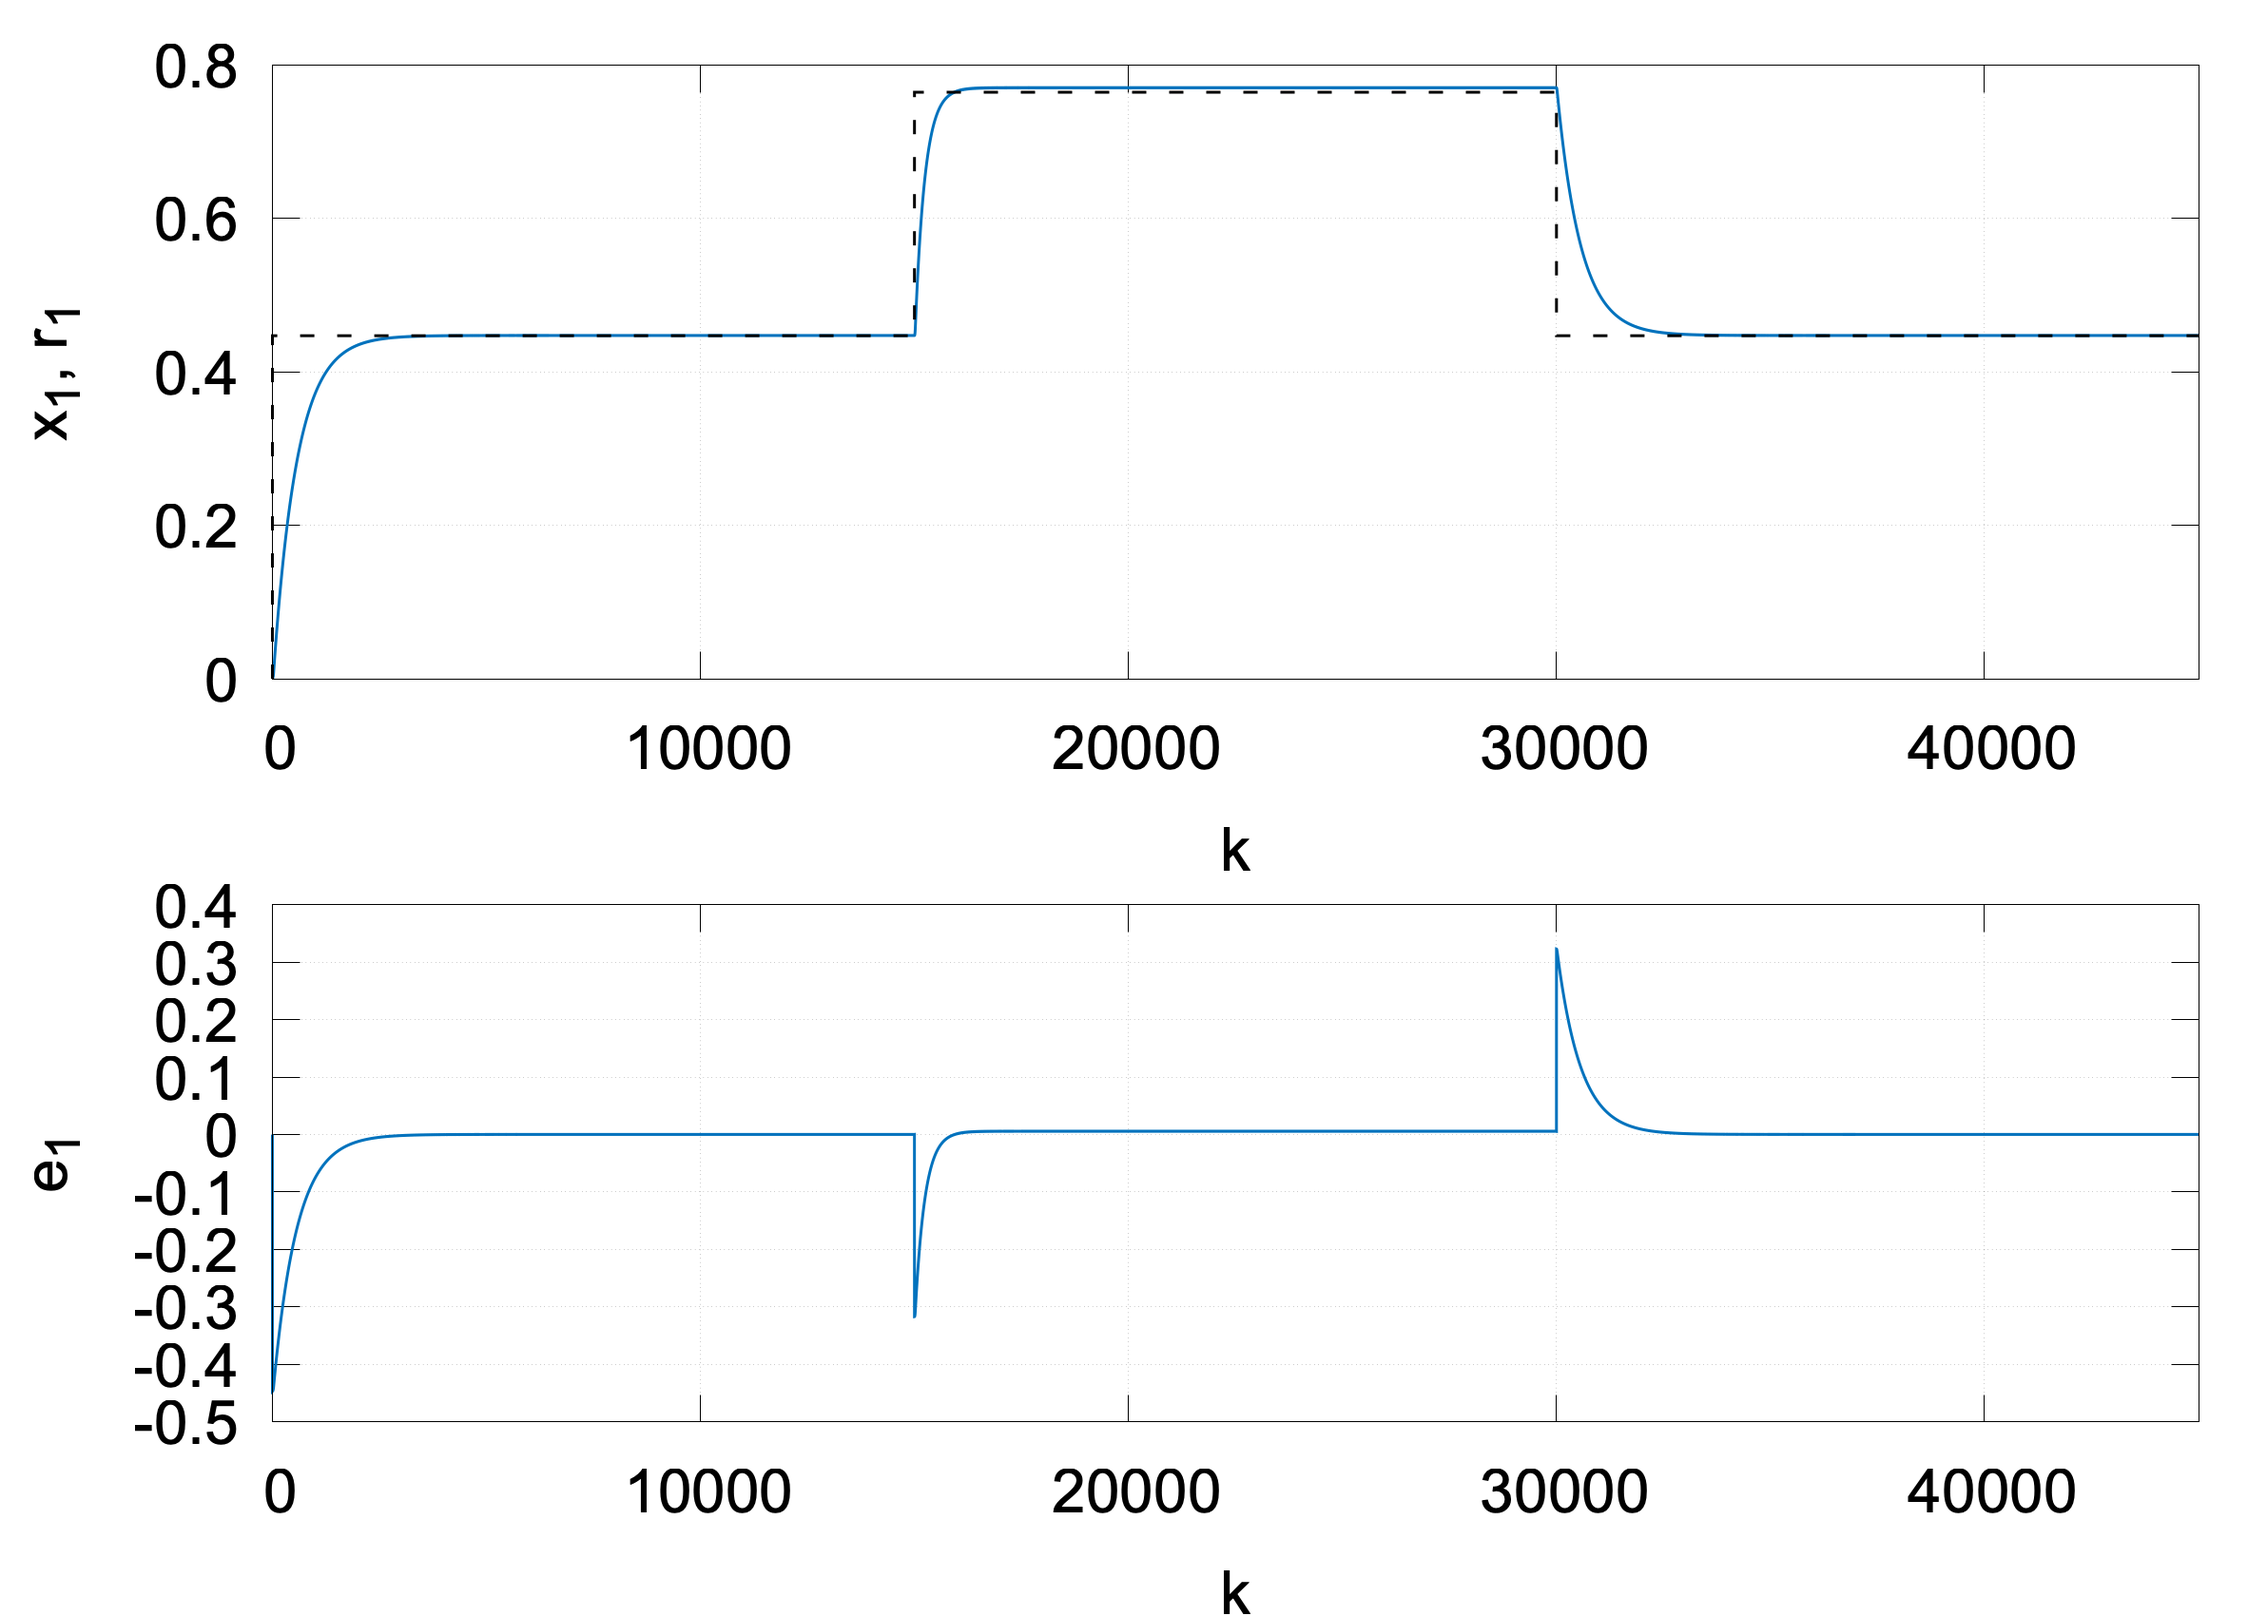
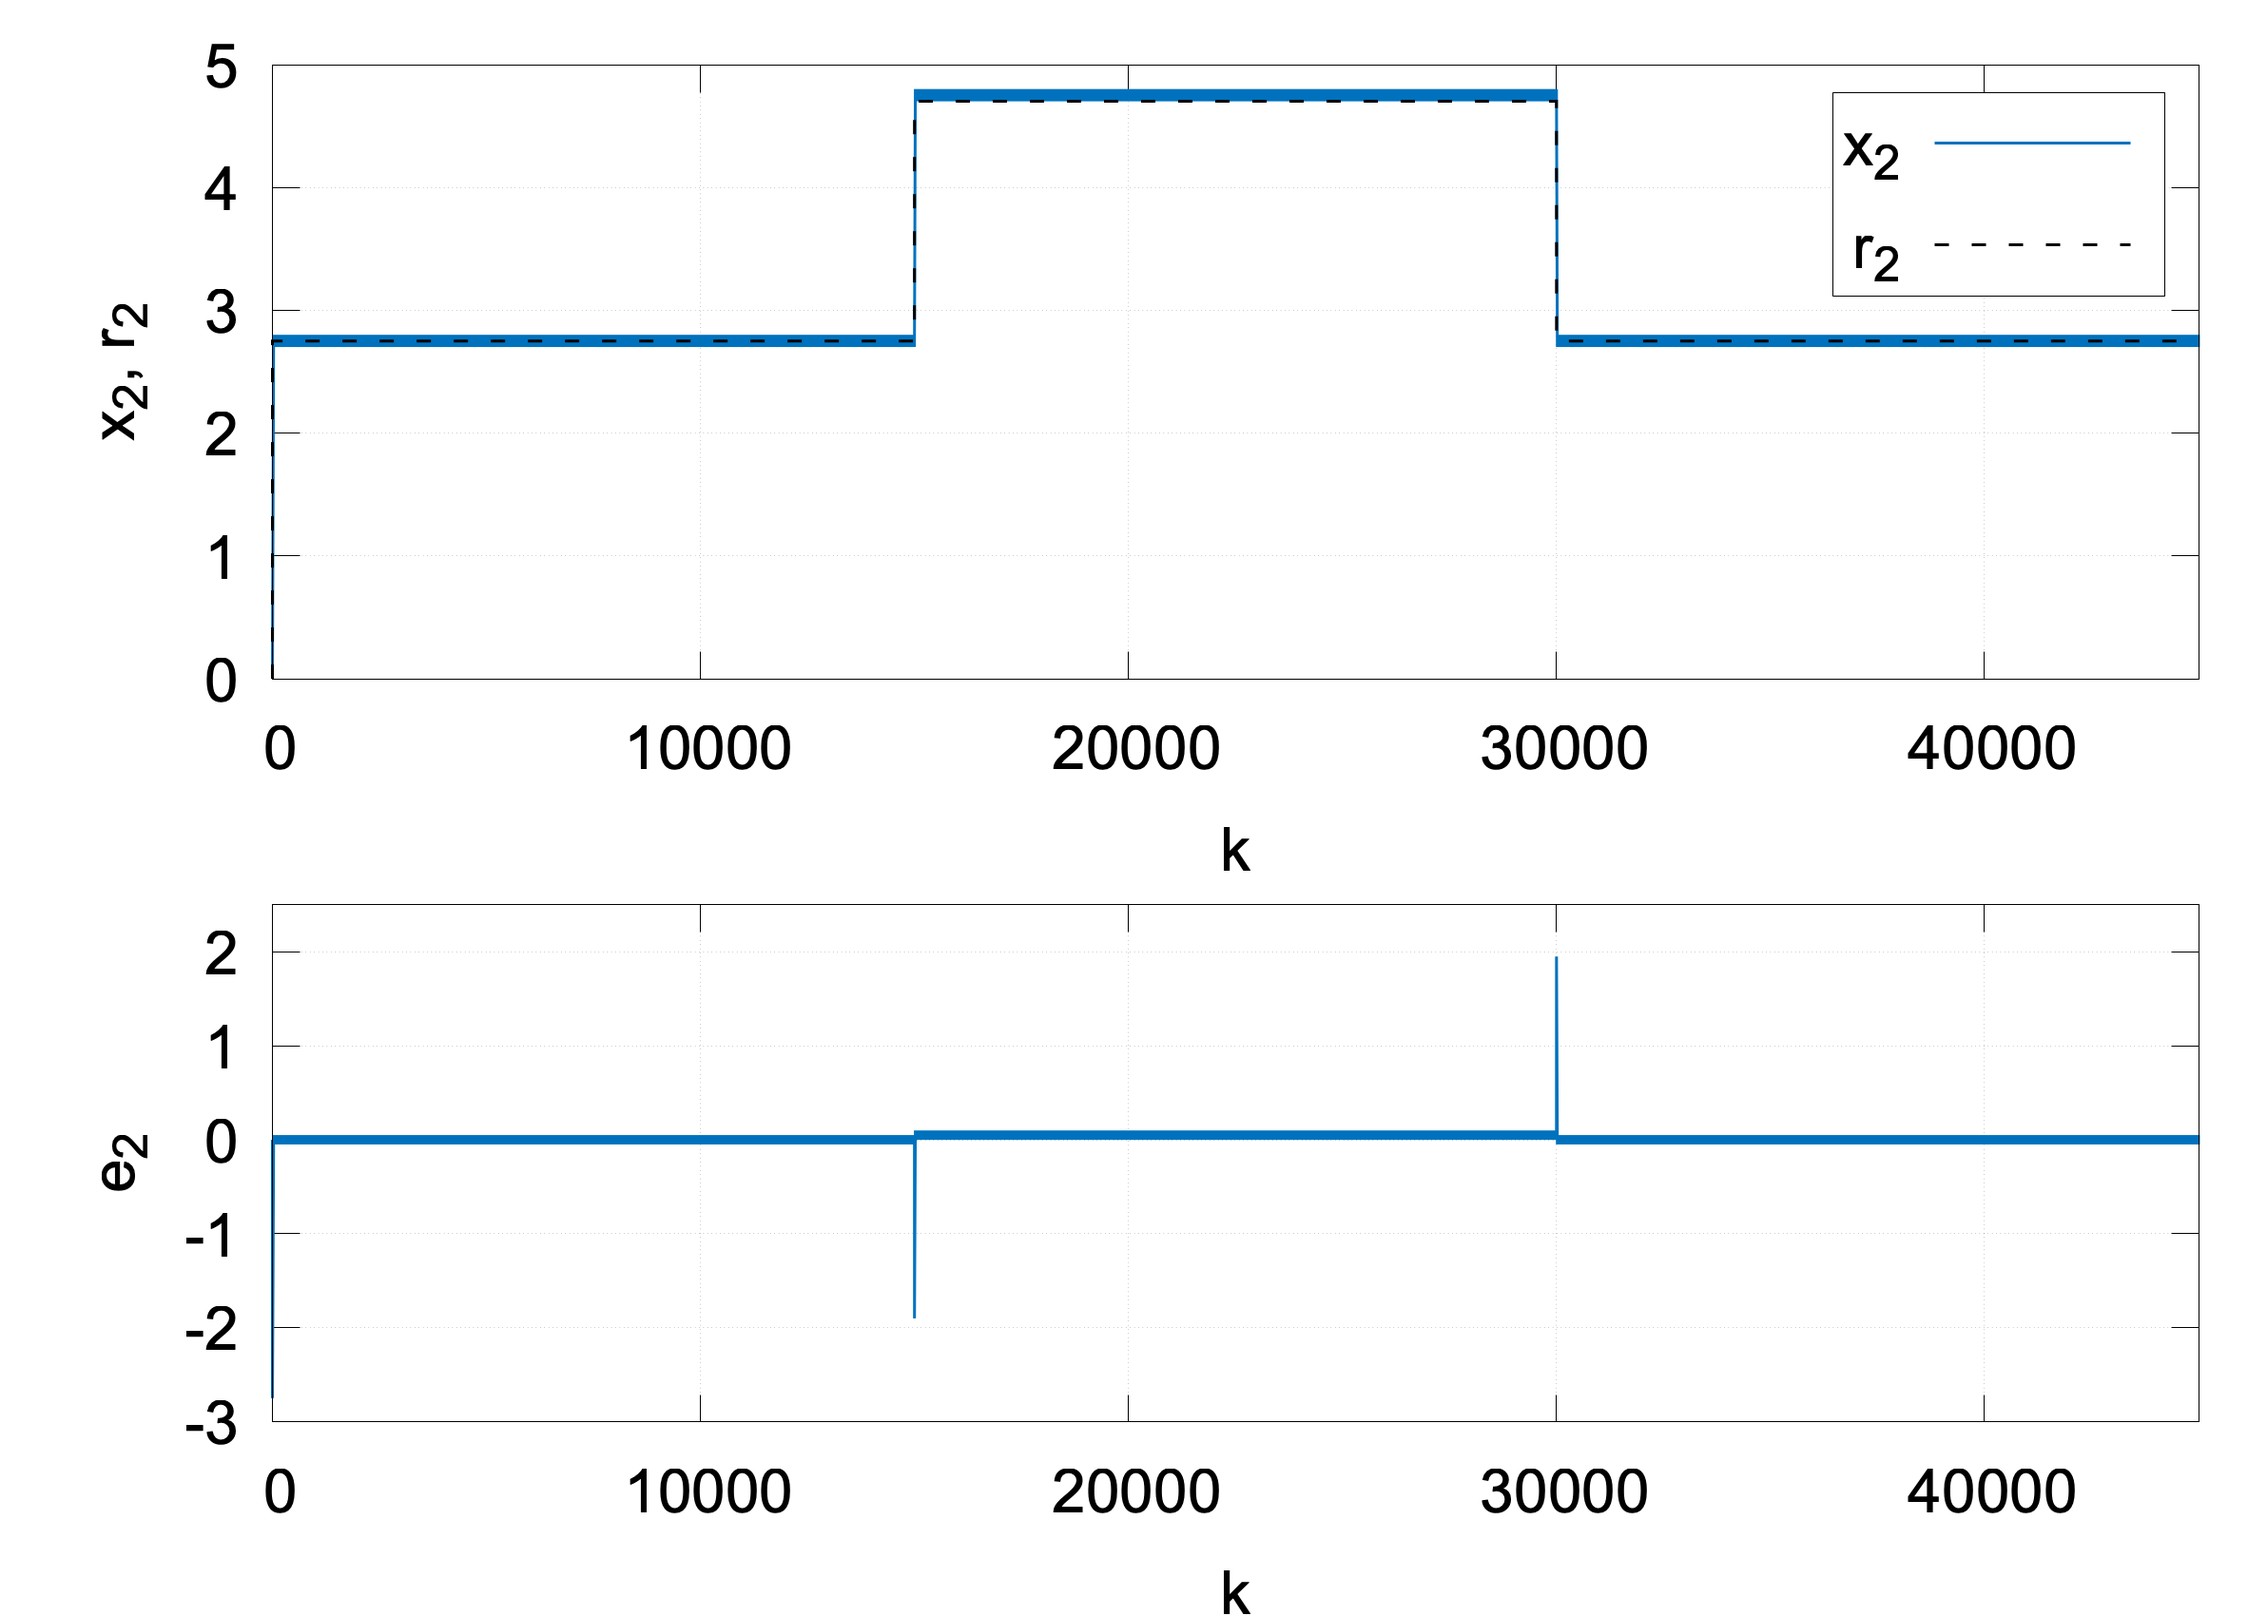
refactor(paper): switch combined figures from x1/e1 to x2/e2
Both clean and composite multiplot figures now plot state x_2
(reactor temperature) and tracking error e_2, instead of x_1
and e_1. Updates gnuplot scripts (column indices, y-ranges,
y-labels), regenerates PNGs, and rewrites prose and captions
in unperturbed-simulation.tex, perturbed-simulation.tex, and
defended-simulation.tex.

Also adds a reference-trajectory label ("r_2") to both figures'
legends: top-panel legend now reads {x_2, r_2} for Figure 1,
and {Perturbed, Recovered, r_2} for Figure 2.

diff --git a/research-vault/Research Journal/Paper/chapters/defense/defended-simulation.tex b/research-vault/Research Journal/Paper/chapters/defense/defended-simulation.tex
@@ -13,8 +13,8 @@ nearest decision boundary, yielding correct recovery at approximately
 $84\%$ of time steps.
 
 Fig.~\ref{fig:composite-attack-defense} presents the defended state
-trajectory $x_1(t)$ overlaid with the attacked trajectory for direct
-comparison (top panel), along with tracking error $e_1(t)$ for both
+trajectory $x_2(t)$ overlaid with the attacked trajectory for direct
+comparison (top panel), along with tracking error $e_2(t)$ for both
 systems (bottom panel). The defended trace exhibits substantially
 improved tracking relative to the undefended attacked system,
 confirming that the rounding defense provides effective mitigation
@@ -24,10 +24,10 @@ at the theoretical recovery threshold.
 	\centering
 	\includegraphics[width=0.85\textwidth]{cxxplot_composite_combined}
 	\caption{Comparison of attacked and defended CSTR trajectories.
-		Top: state $x_1$ under attack (solid blue) and under
-		rounding defense (solid orange) against reference $r_1$
-		(dashed black). Bottom: tracking error $e_1(t) = x_1(t) -
-		r_1(t)$ under attack (blue) vs defense (orange) over the
+		Top: state $x_2$ under attack (solid blue) and under
+		rounding defense (solid orange) against reference $r_2$
+		(dashed black). Bottom: tracking error $e_2(t) = x_2(t) -
+		r_2(t)$ under attack (blue) vs defense (orange) over the
 		full trajectory.}
 	\label{fig:composite-attack-defense}
 \end{figure}

diff --git a/research-vault/Research Journal/Paper/chapters/introduction/unperturbed-simulation.tex b/research-vault/Research Journal/Paper/chapters/introduction/unperturbed-simulation.tex
@@ -57,11 +57,11 @@ The purpose is to track the reference trajectories
 	\end{cases}
 \end{equation}
 
-The trajectory of state variable $x_1(t)$ obtained based on
+The trajectory of state variable $x_2(t)$ obtained based on
 \eqref{systemModel} and control equation \eqref{eq:control_function}
-and the reference trajectory $r_1(t)$ are presented in
+and the reference trajectory $r_2(t)$ are presented in
 Fig.~\ref{fig:unperturbed-combined} (top panel). The tracking error
-$e_1(t) = x_1(t) - r_1(t)$ is shown in the bottom panel, confirming
+$e_2(t) = x_2(t) - r_2(t)$ is shown in the bottom panel, confirming
 the finite-time convergence property of the control law
 \eqref{eq:error_dynamics}: the error spikes at each reference
 transition and decays to zero between transitions.
@@ -69,9 +69,9 @@ transition and decays to zero between transitions.
 \begin{figure}[H]
 	\centering
 	\includegraphics[width=0.85\textwidth]{cxxplot_clean_combined}
-	\caption{Unperturbed CSTR simulation. Top: state $x_1(t)$
-		(solid blue) vs reference $r_1(t)$ (dashed black). Bottom:
-		tracking error $e_1(t) = x_1(t) - r_1(t)$ over the full
+	\caption{Unperturbed CSTR simulation. Top: state $x_2(t)$
+		(solid blue) vs reference $r_2(t)$ (dashed black). Bottom:
+		tracking error $e_2(t) = x_2(t) - r_2(t)$ over the full
 		trajectory.}
 	\label{fig:unperturbed-combined}
 \end{figure}

diff --git a/research-vault/Research Journal/Paper/chapters/attacks/perturbed-simulation.tex b/research-vault/Research Journal/Paper/chapters/attacks/perturbed-simulation.tex
@@ -7,7 +7,7 @@ function, introducing a random perturbation to the control signal at each
 time step.
 
 The attacked CSTR exhibits degraded tracking with visible
-oscillations of $x_1(t)$ around the reference trajectory $r_1(t)$.
+oscillations of $x_2(t)$ around the reference trajectory $r_2(t)$.
 A direct comparison against the defended system is shown in
 Fig.~\ref{fig:composite-attack-defense}.
 
